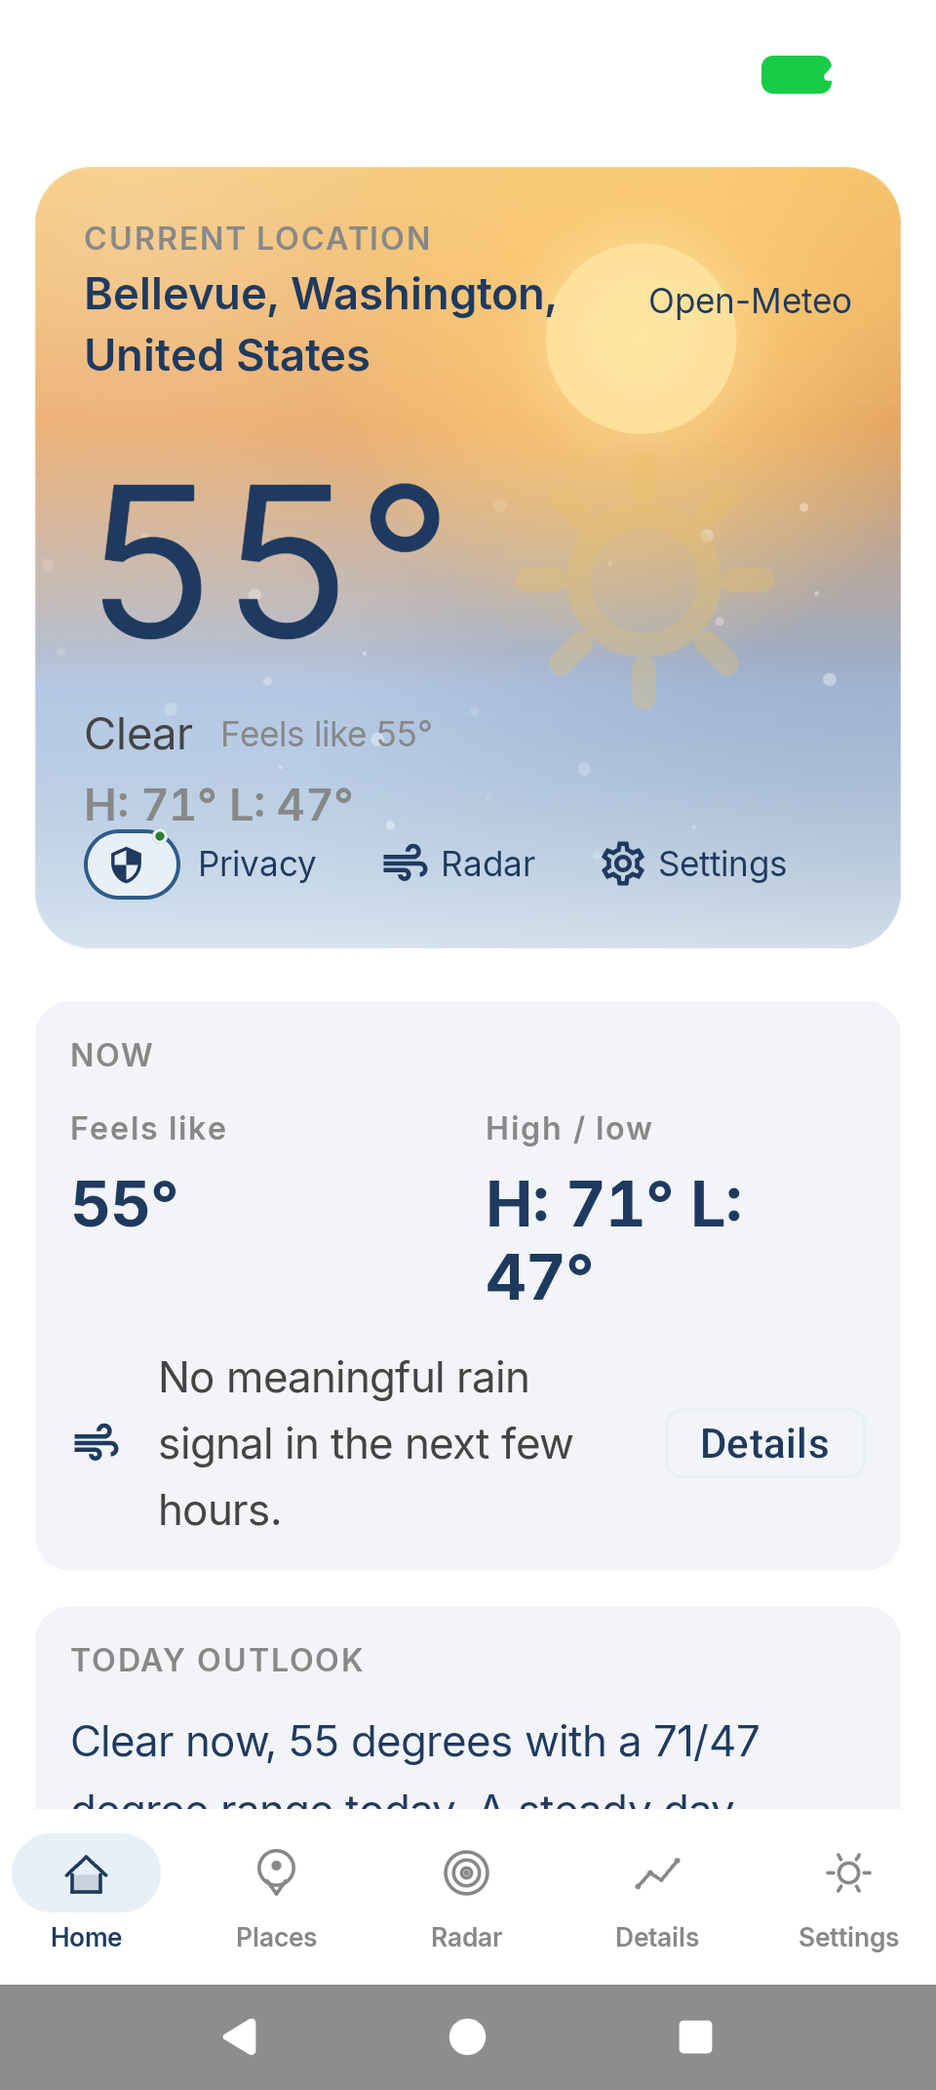
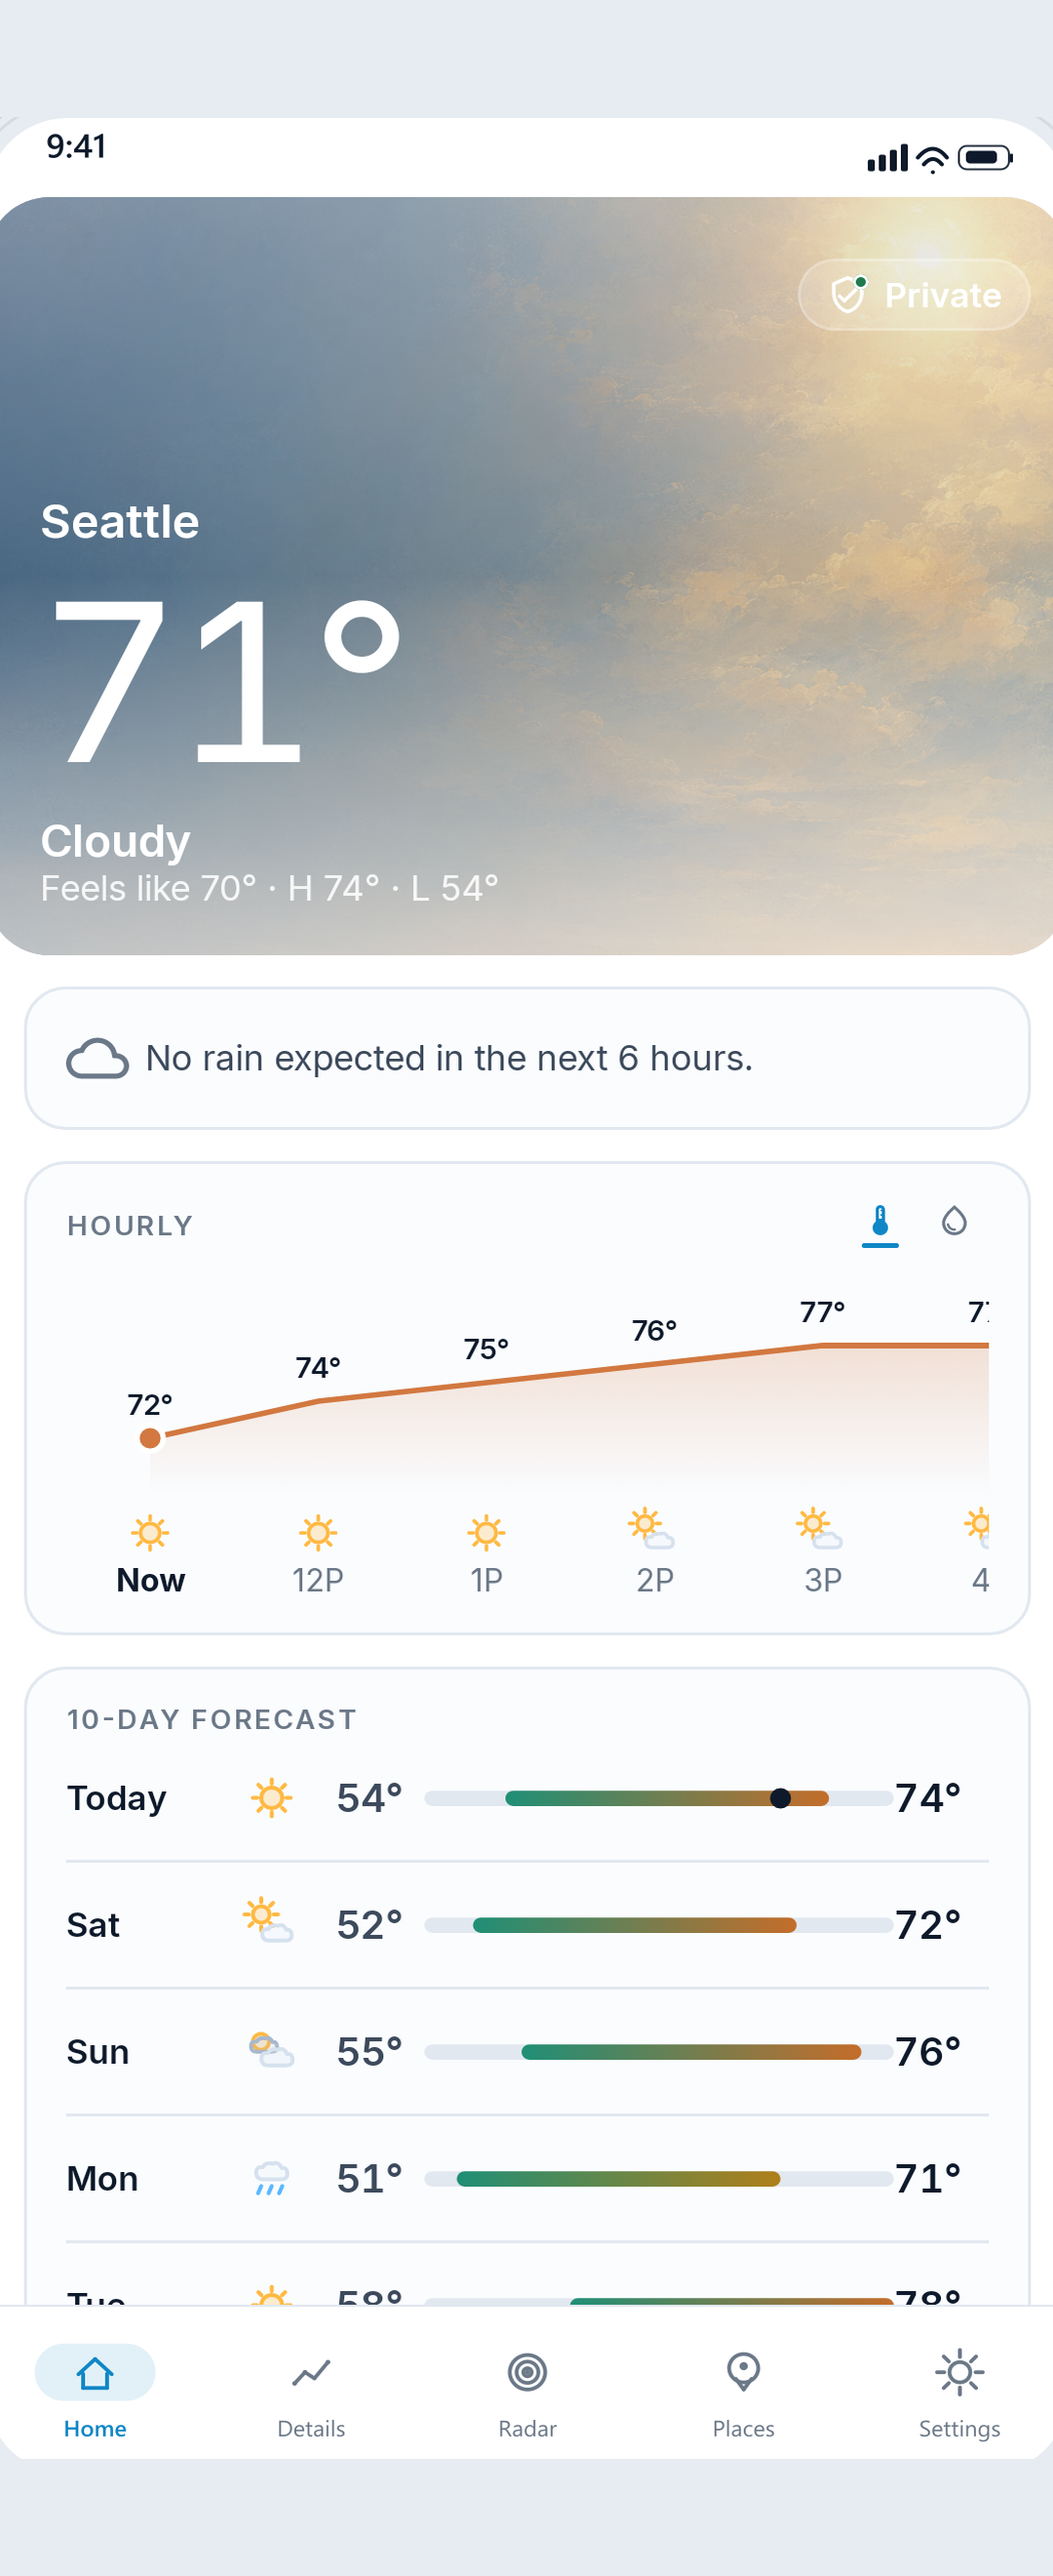
Update hero phone screen

diff --git a/index.html b/index.html
@@ -112,7 +112,7 @@
     <p class="hero-note">Start free · no account · no ads</p>
   </div>
   <div class="hero-phone reveal">
-    <div class="phone"><img src="assets/screen-home-light.webp" width="1080" height="2640" alt="Quiet Sky home screen showing Bellevue, 52 degrees and Partly Cloudy over a painterly sky, with a Private shield chip and a no-rain-in-6-hours note."></div>
+    <div class="phone"><img src="assets/screen-home-light.webp" width="1080" height="2640" alt="Quiet Sky home screen showing Seattle, 71 degrees and Cloudy over a painterly sky, with a Private shield chip and a no-rain-in-6-hours note."></div>
   </div>
 </header>
 
